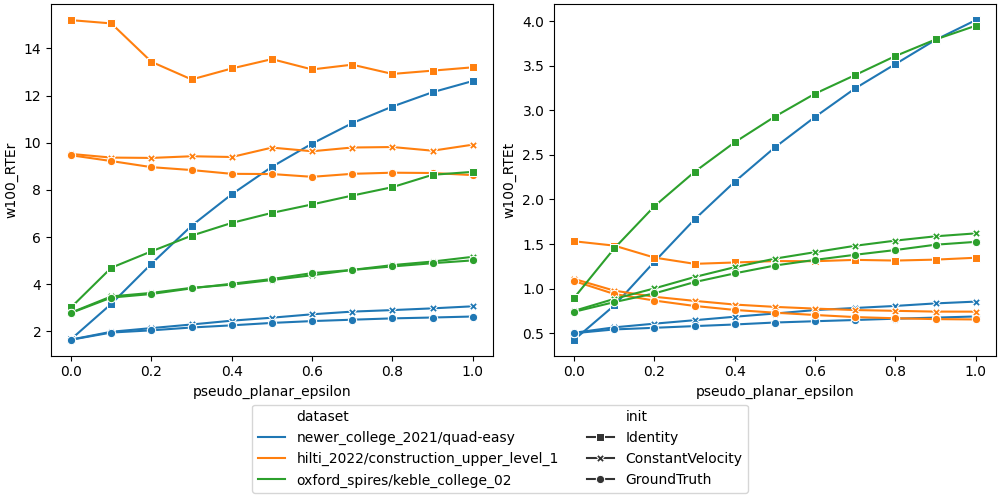
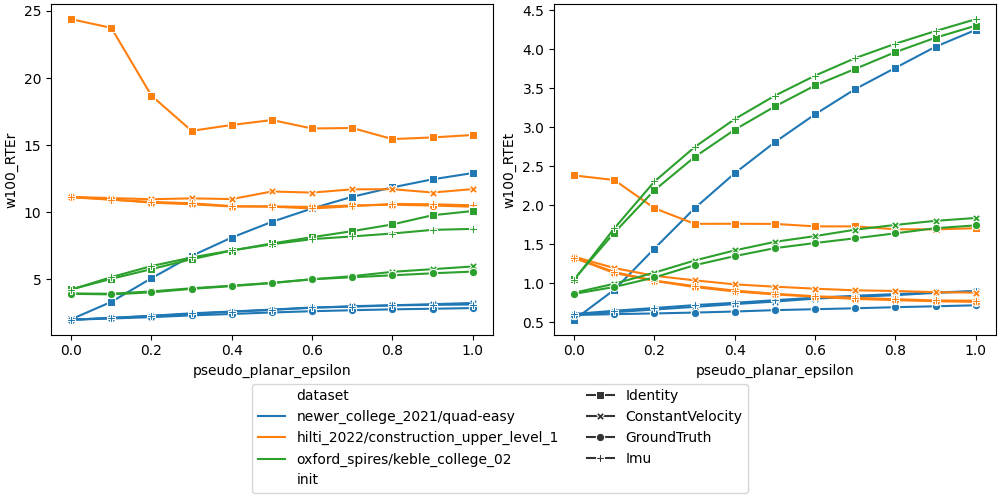
Removed old "GroundTruth" deskew that didn't work

diff --git a/src/run.py b/src/run.py
@@ -1,7 +1,7 @@
 from functools import partial
 from multiprocessing import Manager, Pool, Lock
 from pathlib import Path
-from typing import Optional, Sequence
+from typing import Optional, Sequence, cast
 
 import numpy as np
 from tqdm import tqdm
@@ -9,7 +9,7 @@ from tqdm import tqdm
 import loam
 import params
 from convert import convert
-from evalio.types import SE3, SO3, LidarMeasurement
+from evalio.types import SE3, SO3, LidarMeasurement, Stamp
 from loam import Pose3d
 from wrappers import GroundTruthIterator, ImuPoseLoader, Rerun, Writer
 
@@ -96,6 +96,7 @@ def run(
     # Setup everything for running
     idx = 0
 
+    prev_stamp = None
     prev_feat = None
     prev_gt = None
     prev_prev_gt = None
@@ -116,10 +117,12 @@ def run(
             continue
         if prev_gt is None:
             prev_gt = curr_gt
+            prev_stamp = mm.stamp
             continue
         if prev_prev_gt is None:
             prev_prev_gt = prev_gt
             prev_gt = curr_gt
+            prev_stamp = mm.stamp
             continue
 
         # get imu init and integrated poses - skip if we don't have it
@@ -146,15 +149,12 @@ def run(
             case params.Dewarp.Identity:
                 pass
             case params.Dewarp.ConstantVelocity:
-                pts = loam.deskewInterpolate(
-                    pts, pts_stamps, convert(prev_prev_gt), convert(prev_gt)
-                )
+                dt = mm.stamp - cast(Stamp, prev_stamp)
+                vel_trans = (prev_gt.trans - prev_prev_gt.trans) / dt
+                vel_rot = (prev_prev_gt.rot.inverse() * prev_gt.rot).log() / dt
+                pts = loam.deskewConstantVelocity(pts, pts_stamps, vel_rot, vel_trans)
             case params.Dewarp.Imu:
                 pts = loam.deskewImu(pts, pts_stamps, imu_poses, imu_stamps)
-            case params.Dewarp.GroundTruth:
-                pts = loam.deskewInterpolate(
-                    pts, pts_stamps, convert(prev_gt), convert(curr_gt)
-                )
             case _:
                 raise ValueError("Unknown dewarping")
 
@@ -174,6 +174,7 @@ def run(
             prev_feat = curr_feat
             prev_prev_gt = prev_gt
             prev_gt = curr_gt
+            prev_stamp = mm.stamp
             continue
 
         try:
@@ -224,6 +225,7 @@ def run(
 
         prev_prev_gt = prev_gt
         prev_gt = curr_gt
+        prev_stamp = mm.stamp
         prev_feat = curr_feat
 
         if length is not None and idx >= length:
@@ -284,33 +286,21 @@ def run_multithreaded(
 
 
 if __name__ == "__main__":
-    datasets = [
-        "oxford_spires/blenheim_palace_01",
-        "oxford_spires/blenheim_palace_02",
-        "oxford_spires/blenheim_palace_05",
-        "oxford_spires/bodleian_library_02",
-        "oxford_spires/christ_church_03",
-        "oxford_spires/keble_college_02",
-        "oxford_spires/keble_college_03",
-        "oxford_spires/observatory_quarter_01",
-        "oxford_spires/observatory_quarter_02",
-    ]
+    dataset = "botanic_garden/1005_00"
+    dataset = "hilti_2022/basement_2"
 
     eps = [
         params.ExperimentParams(
-            name="imu",
-            dataset=d,
+            name="fix_cv_removed",
+            dataset=dataset,
             init=params.Initialization.GroundTruth,
-            dewarp=params.Dewarp.Imu,
-            pseudo_planar_epsilon=0.0,
-            use_plane_to_plane=False,
+            dewarp=params.Dewarp.ConstantVelocity,
             features=[params.Feature.Planar],
         )
-        for d in datasets
     ]
 
-    directory = Path("results/25.02.14_broken_imu_dewarp")
-    length = 100
+    directory = Path("results/25.02.14_fix_cv")
+    length = 200
     multithreaded = False
 
     if multithreaded:

diff --git a/experiments/dewarp.py b/experiments/dewarp.py
@@ -10,50 +10,15 @@ from params import ExperimentParams, Feature, Initialization, Dewarp
 from wrappers import parser, plt_show, setup_plot
 from run import run_multithreaded
 from stats import compute_cache_stats
+from env import ALL_TRAJ, RESULTS_DIR
 
 
 # dir = Path("results/25.02.06_dewarp_with_init")
-dir = Path("results/25.02.13_dewarp_large_experiment")
+dir = RESULTS_DIR / "25.02.14_dewarp_large_experiment"
 
 
 def run(num_threads: int):
     # ------------------------- Everything to sweep over ------------------------- #
-    datasets = [
-        # ncd20
-        "newer_college_2020/01_short_experiment",
-        # ncd21
-        "newer_college_2021/quad-easy",
-        "newer_college_2021/quad-medium",
-        "newer_college_2021/quad-hard",
-        "newer_college_2021/stairs",
-        "newer_college_2021/cloister",
-        "newer_college_2021/maths-easy",
-        "newer_college_2021/maths-medium",
-        "newer_college_2021/maths-hard",
-        # mcd
-        "multi_campus_2024/ntu_day_02",  # TODO: Not sure if I've got these working yet
-        "multi_campus_2024/ntu_day_10",
-        "multi_campus_2024/tuhh_day_02",
-        "multi_campus_2024/tuhh_day_04",
-        # spires
-        # "oxford_spires/blenheim_palace_01",
-        # "oxford_spires/blenheim_palace_02",
-        # "oxford_spires/blenheim_palace_05",
-        # "oxford_spires/bodleian_library_02",
-        # "oxford_spires/christ_church_03",
-        # "oxford_spires/keble_college_02",
-        # "oxford_spires/keble_college_03",
-        # "oxford_spires/observatory_quarter_01",
-        # "oxford_spires/observatory_quarter_02",
-        # hilti
-        "hilti_2022/construction_upper_level_1",
-        "hilti_2022/construction_upper_level_2",
-        "hilti_2022/construction_upper_level_3",
-        "hilti_2022/basement_2",
-        "hilti_2022/attic_to_upper_gallery_2",
-        "hilti_2022/corridor_lower_gallery_2",
-    ]
-
     dewarp = [
         Dewarp.Identity,
         Dewarp.ConstantVelocity,
@@ -63,6 +28,7 @@ def run(num_threads: int):
     init = [
         # Initialization.Identity,
         # Initialization.ConstantVelocity,
+        Initialization.Imu,
         Initialization.GroundTruth,
     ]
 
@@ -75,7 +41,7 @@ def run(num_threads: int):
             dewarp=de,
             init=i,
         )
-        for (d, de, i) in product(datasets, dewarp, init)
+        for (d, de, i) in product(ALL_TRAJ, dewarp, init)
     ]
 
     run_multithreaded(experiments, dir, num_threads=num_threads)

diff --git a/experiments/pseudo.py b/experiments/pseudo.py
@@ -61,8 +61,8 @@ def plot(name: str, force: bool):
         y="w100_RTEr",
         hue="dataset",
         style="init",
-        markers=["s", "X", "o"],
-        style_order=["Identity", "ConstantVelocity", "GroundTruth"],
+        markers=["s", "X", "o", "P"],
+        style_order=["Identity", "ConstantVelocity", "GroundTruth", "Imu"],
         dashes=False,
     )
     sns.lineplot(
@@ -72,8 +72,8 @@ def plot(name: str, force: bool):
         y="w100_RTEt",
         hue="dataset",
         style="init",
-        markers=["s", "X", "o"],
-        style_order=["Identity", "ConstantVelocity", "GroundTruth"],
+        markers=["s", "X", "o", "P"],
+        style_order=["Identity", "ConstantVelocity", "GroundTruth", "Imu"],
         dashes=False,
         legend=False,
     )

diff --git a/src/params.py b/src/params.py
@@ -36,8 +36,6 @@ class Dewarp(PrettyPrintEnum):
     Identity = 0
     ConstantVelocity = 1
     Imu = 2
-    # TODO: Should this be kept?
-    GroundTruth = 3
 
 
 class Curvature(PrettyPrintEnum):
